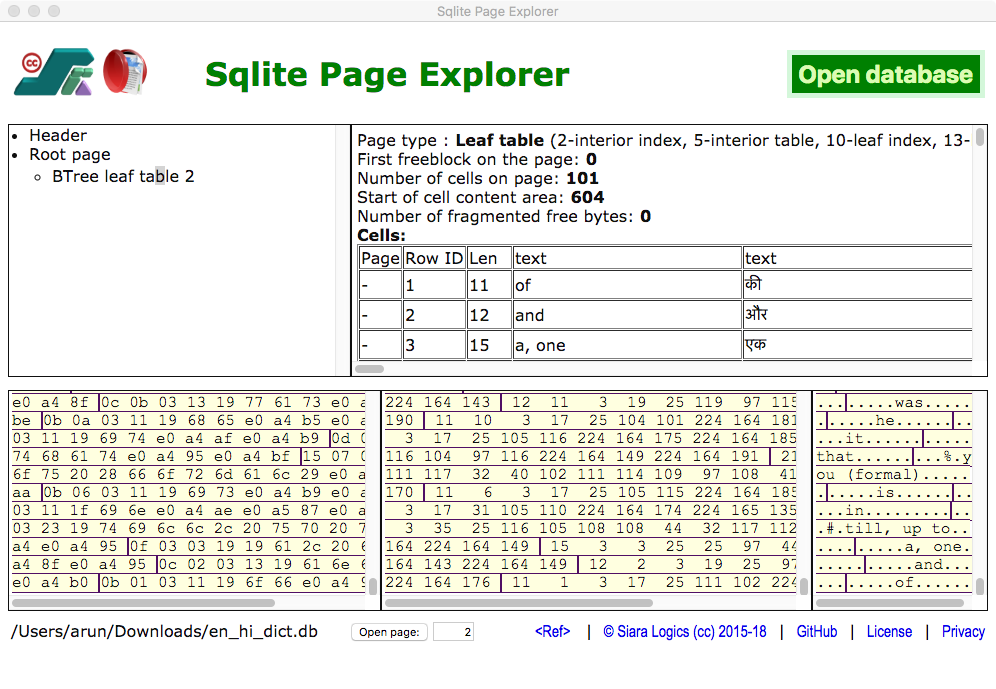
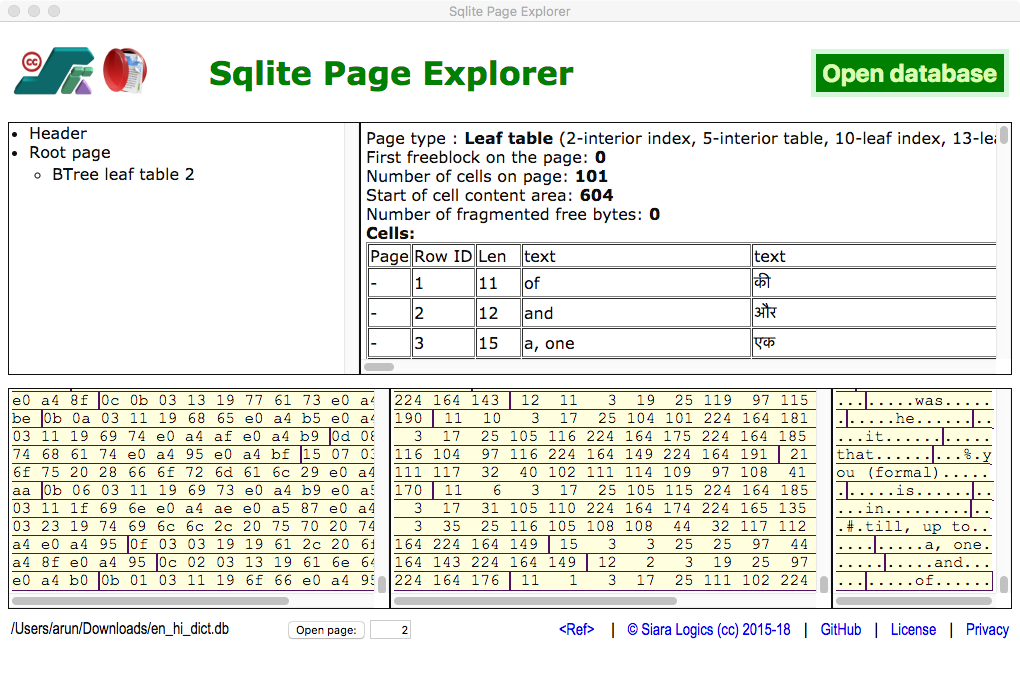
update screenshots

diff --git a/index.html b/index.html
@@ -18,7 +18,7 @@
         <img src="res/img/siara_cc_3d.png" width="84px" height="48px"></img>
         <img src="res/icons/db_search.png" width="48px" height="48px"></img>
       </td>
-      <td align="left" style="color: green"><h1>Sqlite Page Explorer</h1></td>
+      <td style="text-align: left; margin: 0px; padding: 0px; color: green"><h1>Sqlite Page Explorer</h1></td>
       <td style="text-align: right" ><input type="button" class="fancyButton" onclick="selectFile();" value="Open database"/></td>
     </tr></table>
     <table width="100%" height="40%" style="table-layout:fixed;" cellpadding='0' cellspacing='0'>

diff --git a/index.css b/index.css
@@ -66,7 +66,7 @@ a {
 }
 .dbname {
   color: #0F0F0F;
-  font-family: Verdana, Geneva, sans-serif
+  font-family: Arial Narrow, Arial, sans-serif
 }
 .bh {
   title: "B-Tree page header";
